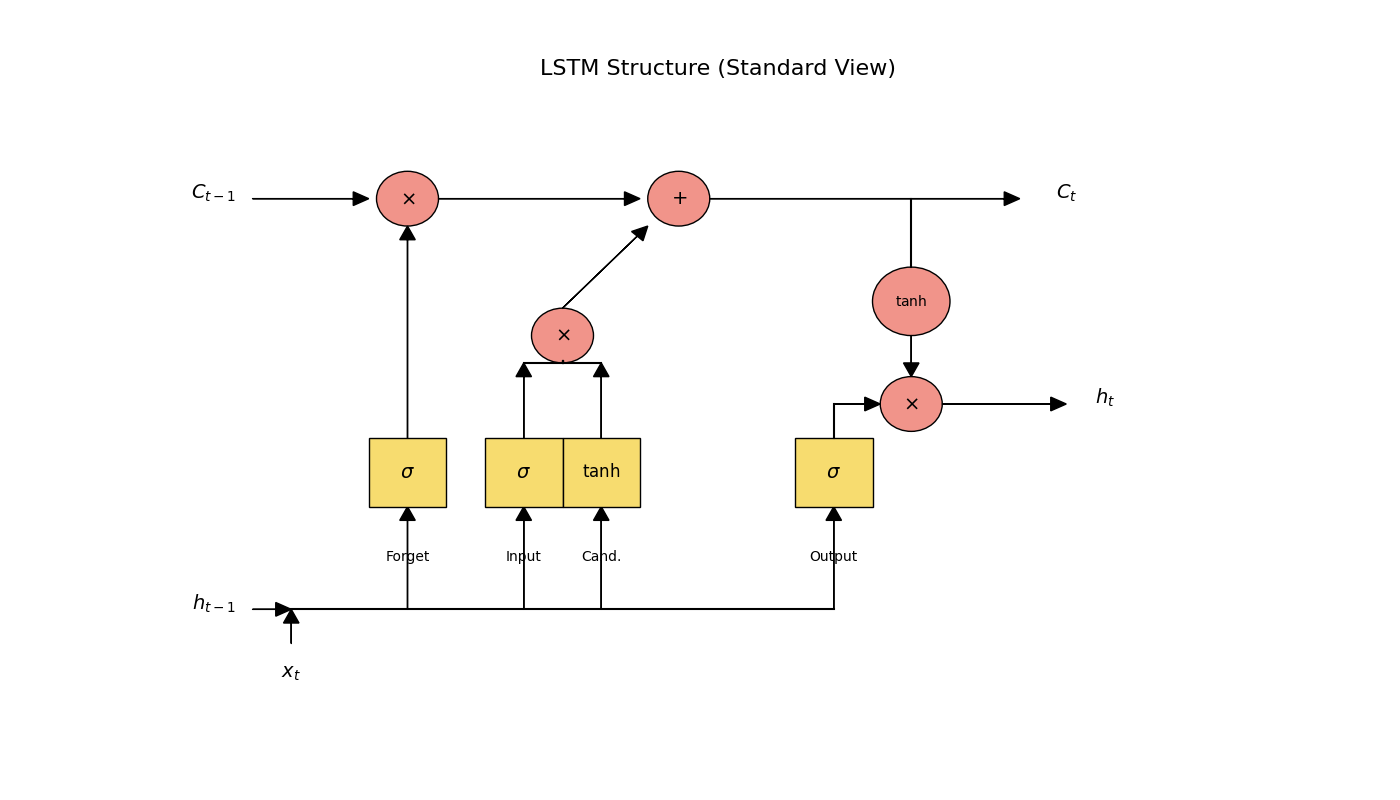
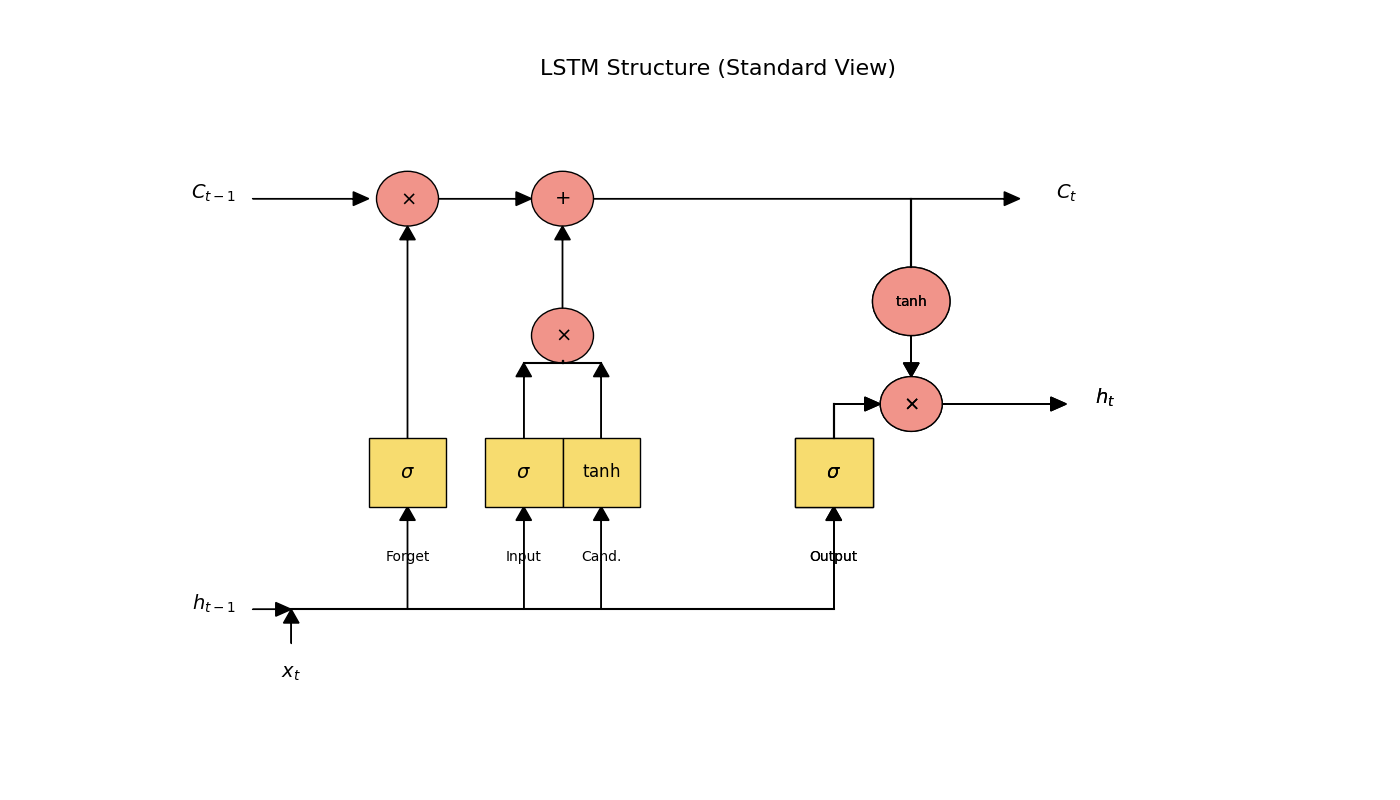
feat: Add LSTM stock prediction script, result visualization, LSTM concept diagram, and project README.

diff --git a/day28/LSTM_Stock_Prediction.py b/day28/LSTM_Stock_Prediction.py
@@ -111,19 +111,39 @@ def plot_lstm_concept():
     ax.text(0.5, 7.5, "$C_{t-1}$", fontsize=14, fontweight='bold', ha='center')
     ax.arrow(1, 7.5, 1.5, 0, **arrow_params) # To Multiply
     
+# 視覺化 2: LSTM 核心概念 (Colah Style)
+def plot_lstm_concept():
+    fig, ax = plt.subplots(figsize=(14, 8))
+    ax.axis('off')
+    ax.set_xlim(0, 14)
+    ax.set_ylim(0, 9)
+    
+    # Styles
+    layer_color = '#F7DC6F' # Yellow
+    op_color = '#F1948A'    # Pink
+    line_color = 'black'
+    arrow_params = dict(head_width=0.2, head_length=0.2, fc=line_color, ec=line_color, length_includes_head=True)
+
+    # --- 1. Top Rail (Cell State) ---
+    # C_{t-1} -> X -> + -> C_t
+    ax.text(0.5, 7.5, "$C_{t-1}$", fontsize=14, fontweight='bold', ha='center')
+    ax.arrow(1, 7.5, 1.5, 0, **arrow_params) # To Multiply
+    
     # Multiply Op (Forget)
     circle_mul1 = plt.Circle((3, 7.5), 0.4, fc=op_color, ec='black')
     ax.add_patch(circle_mul1)
     ax.text(3, 7.5, "$\\times$", fontsize=14, ha='center', va='center')
     
-    ax.arrow(3.4, 7.5, 2.6, 0, **arrow_params) # To Add
+    # Arrow from Multiply to Add (Shortened)
+    ax.arrow(3.4, 7.5, 1.2, 0, **arrow_params) # To Add
     
-    # Add Op (Update)
-    circle_add = plt.Circle((6.5, 7.5), 0.4, fc=op_color, ec='black')
+    # Add Op (Update) - Moved to x=5.0
+    circle_add = plt.Circle((5.0, 7.5), 0.4, fc=op_color, ec='black')
     ax.add_patch(circle_add)
-    ax.text(6.5, 7.5, "$+$", fontsize=14, ha='center', va='center')
+    ax.text(5.0, 7.5, "$+$", fontsize=14, ha='center', va='center')
     
-    ax.arrow(6.9, 7.5, 4, 0, **arrow_params) # To C_t
+    # Arrow from Add to C_t (Lengthened)
+    ax.arrow(5.4, 7.5, 5.5, 0, **arrow_params) # To C_t
     ax.text(11.5, 7.5, "$C_t$", fontsize=14, fontweight='bold', ha='center')
 
     # --- 2. Bottom Inputs ---
@@ -176,8 +196,45 @@ def plot_lstm_concept():
     ax.plot([4.5, 5.5], [5.1, 5.1], color='black') # Horizontal bar
     ax.arrow(5, 5.1, 0, 0.05, head_width=0, color='black') # Tiny connector
     
-    # Result to Top Add
-    ax.arrow(5, 5.9, 1.1, 1.2, **arrow_params) # To Add
+    # Result to Top Add (Now Vertical!)
+    ax.arrow(5, 5.9, 0, 1.2, **arrow_params) # To Add (Vertical)
+    
+    # Output Gate (Sigmoid)
+    # Path: Bottom -> Sigmoid -> Output Multiply
+    ax.arrow(8.5, 1.5, 0, 1.5, **arrow_params) # Up to layer
+    rect_o = plt.Rectangle((8, 3), 1, 1, fc=layer_color, ec='black')
+    ax.add_patch(rect_o)
+    ax.text(8.5, 3.5, "$\\sigma$", fontsize=14, ha='center', va='center')
+    ax.text(8.5, 2.2, "Output", fontsize=10, ha='center') # Moved down
+    
+    # Output Gate Arrow to Multiply (Adjusted path)
+    # Go up, then right, then up to avoid overlap
+    ax.plot([8.5, 8.5], [4, 4.5], color='black') # Up
+    ax.arrow(8.5, 4.5, 0.6, 0, **arrow_params) # Right to Multiply
+    
+    # Output Tanh (on Cell State branch)
+    # Branch from Top Rail
+    ax.plot([9.5, 9.5], [7.5, 6.5], color='black') # Down from top
+    
+    # Tanh Op (Moved up)
+    circle_tanh = plt.Circle((9.5, 6.0), 0.5, fc=op_color, ec='black')
+    ax.add_patch(circle_tanh)
+    ax.text(9.5, 6.0, "$\\tanh$", fontsize=10, ha='center', va='center')
+    
+    ax.arrow(9.5, 5.5, 0, -0.6, **arrow_params) # Down to Multiply (Longer arrow)
+    
+    # Output Multiply
+    circle_mul3 = plt.Circle((9.5, 4.5), 0.4, fc=op_color, ec='black')
+    ax.add_patch(circle_mul3)
+    ax.text(9.5, 4.5, "$\\times$", fontsize=14, ha='center', va='center')
+    
+    # Final Output h_t
+    ax.arrow(9.9, 4.5, 1.6, 0, **arrow_params)
+    ax.text(12, 4.5, "$h_t$", fontsize=14, fontweight='bold', ha='center')
+
+    plt.title("LSTM Structure (Standard View)", fontsize=16, y=1.02)
+    plt.savefig(os.path.join(pic_dir, '28-2_LSTM_Concept.png'))
+    print("LSTM Concept plot saved.")
     
     # Output Gate (Sigmoid)
     # Path: Bottom -> Sigmoid -> Output Multiply

diff --git a/day28/README.md b/day28/README.md
@@ -71,6 +71,10 @@ LSTM 的運作可以看作是兩條線的交互作用：
 > *   $W_f, W_i, W_C, W_o$：這些就是模型要學習的 **權重 (Weights)**。
 > *   $[h_{t-1}, x_t]$：把「昨天的隱藏狀態」和「今天的輸入」接在一起。
 
+> **圖解補充：為什麼有 X 和 + ？**
+> *   **X (乘法)**：代表 **「閘門控制」**。乘以 0 就是關掉 (不通過)，乘以 1 就是全開 (通過)。
+> *   **+ (加法)**：代表 **「資訊疊加」**。把新資訊「加」到舊記憶上，而不是「替換」掉它。這讓 LSTM 能同時記住新舊資訊。
+
 ## 3. 實戰
 ### Python 程式碼實作
 完整程式連結：[LSTM_Stock_Prediction.py](LSTM_Stock_Prediction.py)
